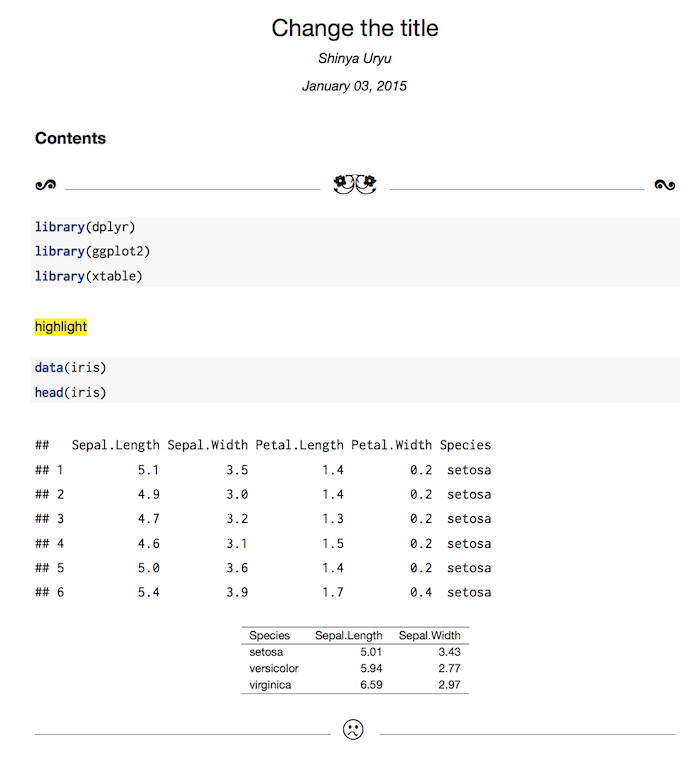
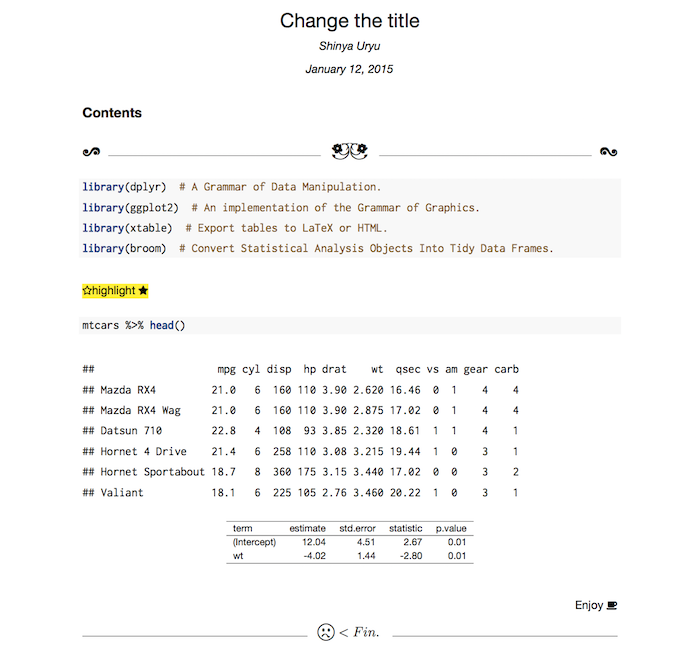
[upgrade]for 0.2.3
new preview sample image

diff --git a/README.md b/README.md
@@ -40,4 +40,10 @@ RStudioでR Markdownドキュメントを新規作成するとき、いちいち
 
 ## Preview
 
+Basic report
+
 ![](https://github.com/uribo/lab.note/raw/master/inst/assets/img/preview.png)
+
+Seminar (Beamer)
+
+![](https://github.com/uribo/lab.note/raw/master/inst/assets/img/preview_seminar_jp.png)
